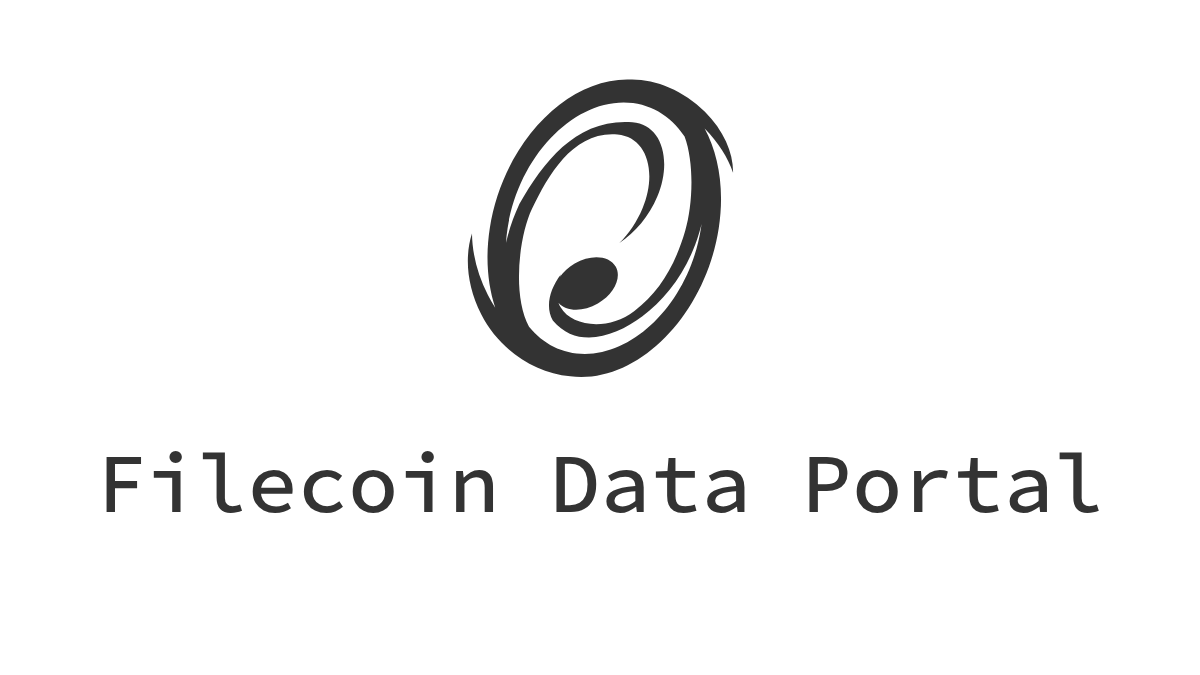
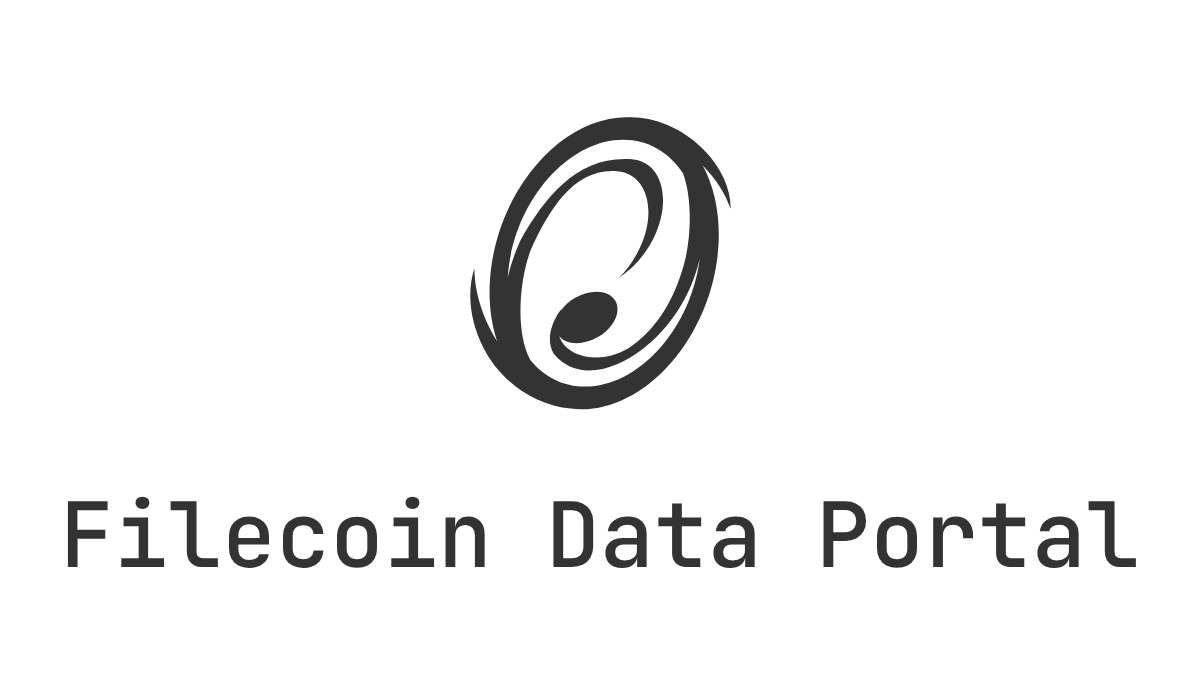
✨ Enhance website configuration and update dependencies

Changed region(s): [[0.37, 0.0933, 0.6167, 0.6222], [0.4625, 0.6533, 0.9558, 0.84], [0.0308, 0.6533, 0.4317, 0.84]]

diff --git a/web/src/styles.css b/web/src/styles.css
@@ -26,8 +26,7 @@ html {
 }
 
 body {
-    font-family: "Source Sans Pro", sans;
-    font-size: 1.1rem;
+    font-family: var(--font-sans);
     font-optical-sizing: auto;
     line-height: 1.4;
 
@@ -56,7 +55,7 @@ a {
 
 footer {
     margin-top: 40px;
-    font-family: "Source Code Pro", monospace;
+    font-family: var(--font-monospace);
     font-size: 14px;
     text-align: center;
     padding: 20px 0;
@@ -65,7 +64,7 @@ footer {
 
 .navbar {
     margin-bottom: 2em;
-    font-family: "Source Code Pro", monospace;
+    font-family: var(--font-monospace);
 }
 
 .navbar ul {
@@ -85,12 +84,14 @@ footer {
 }
 
 h1 {
+    font-weight: 500;
     text-align: center;
-    font-family: "Source Code Pro", monospace;
+    font-family: var(--font-monospace);
 }
 
 h2,
 h3 {
-    font-family: "Source Code Pro", monospace;
+    font-weight: 600;
+    font-family: var(--font-monospace);
     margin-top: 1.5em;
 }
